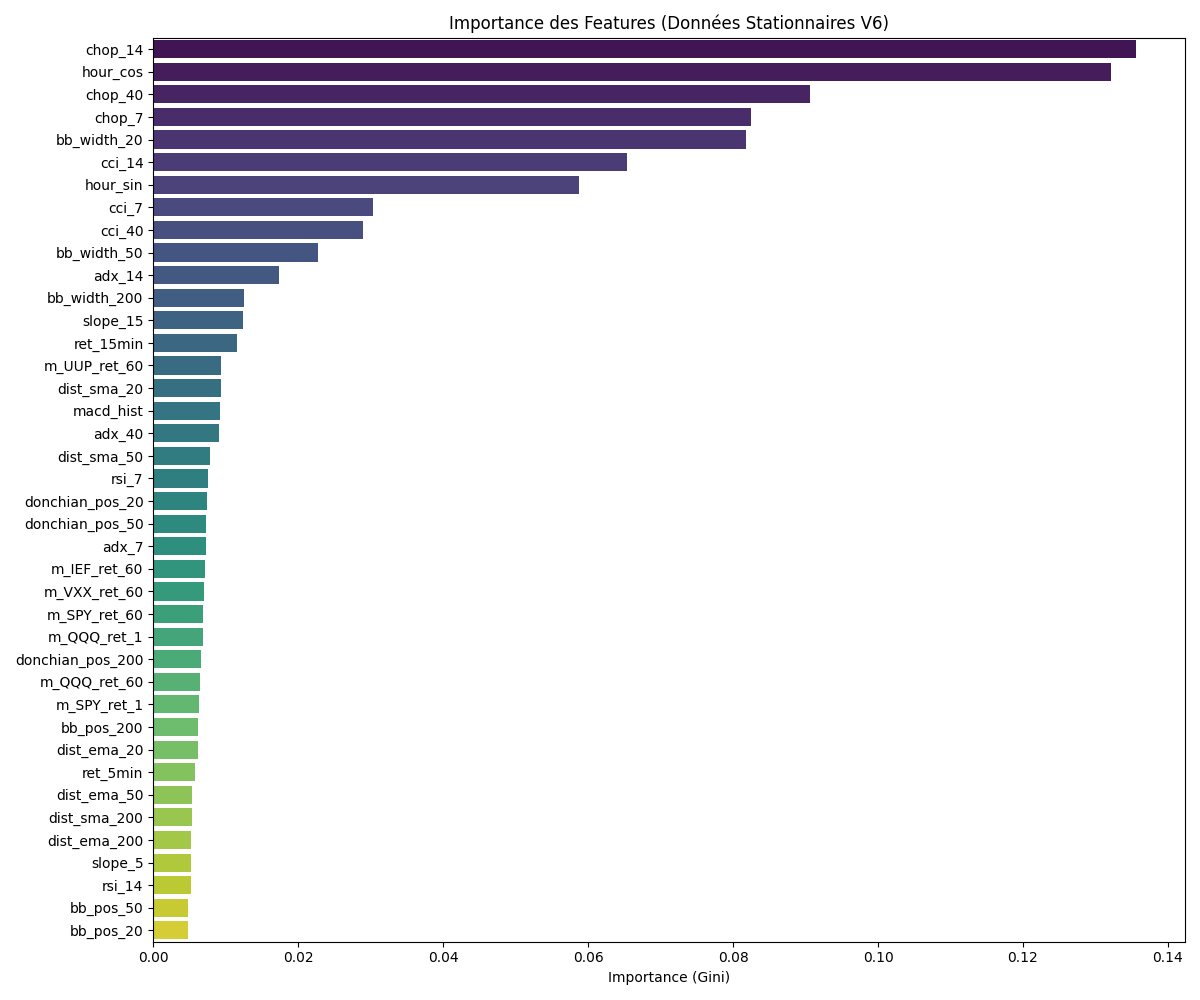
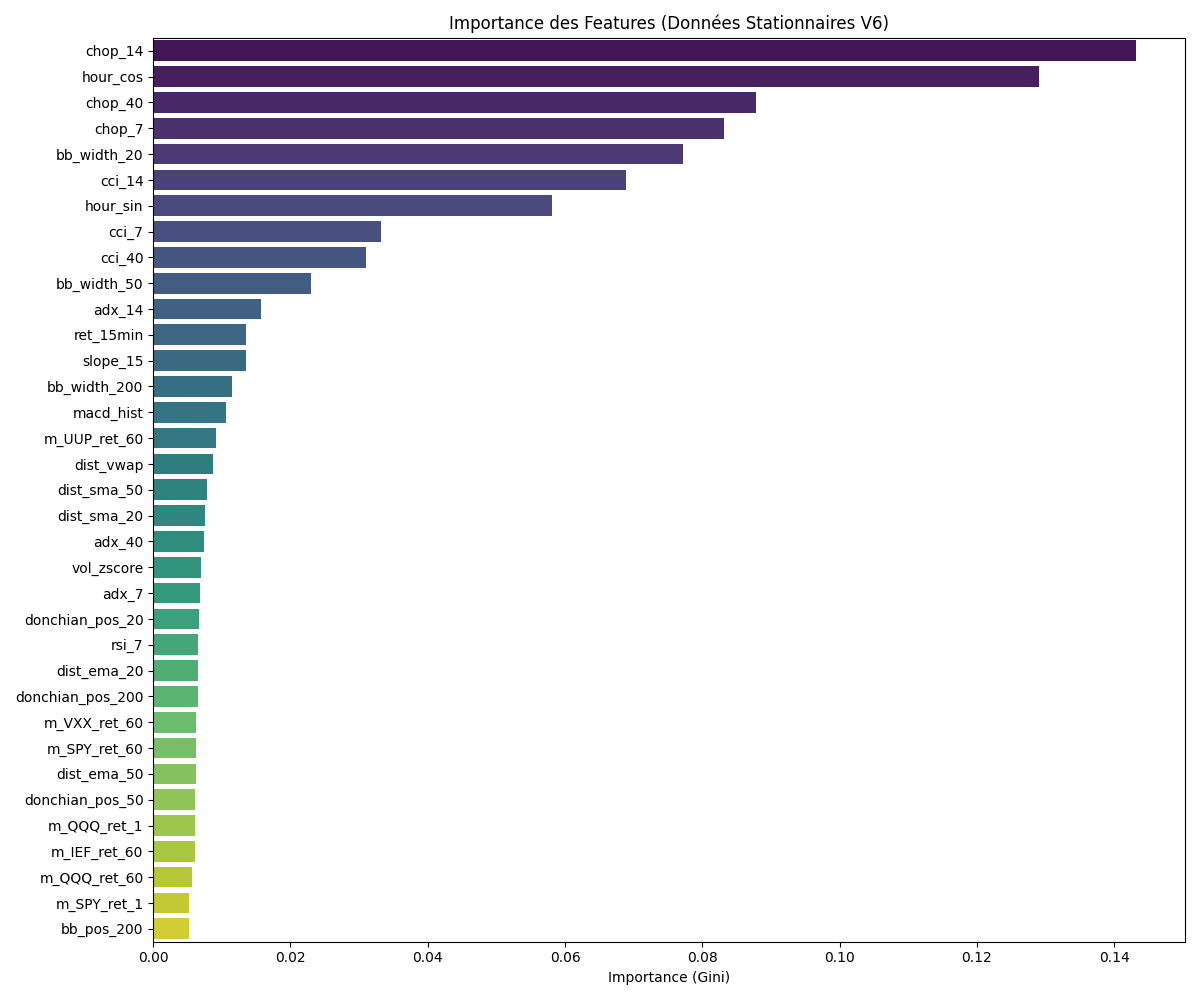
modification des paramètres avant entrainement

diff --git a/intraday/train_transformer.py b/intraday/train_transformer.py
@@ -47,6 +47,36 @@ gpus = tf.config.list_physical_devices('GPU')
 if gpus:
     for gpu in gpus: tf.config.experimental.set_memory_growth(gpu, True)
 
+
+# --- CUSTOM LOSS (PERMABULL KILLER) ---
+class SparseCategoricalFocalLoss(tf.keras.losses.Loss):
+    def __init__(self, gamma=2.0, from_logits=False, **kwargs):
+        super().__init__(**kwargs)
+        self.gamma = gamma
+        self.from_logits = from_logits
+
+    def call(self, y_true, y_pred):
+        if self.from_logits:
+            y_pred = tf.nn.softmax(y_pred)
+        
+        epsilon = tf.keras.backend.epsilon()
+        y_pred = tf.clip_by_value(y_pred, epsilon, 1. - epsilon)
+
+        y_true = tf.cast(y_true, tf.int32)
+        # On récupère la proba prédite pour la VRAIE classe
+        y_pred_true_class = tf.gather(y_pred, y_true, batch_dims=1, axis=1)
+
+        # Formule Focal Loss : (1 - p)^gamma * log(p)
+        # Plus le modèle est confiant (p proche de 1), moins ça compte.
+        # Si le modèle se trompe (p faible), le poids (1-p)^gamma devient énorme.
+        loss = - ((1 - y_pred_true_class) ** self.gamma) * tf.math.log(y_pred_true_class)
+        return tf.reduce_mean(loss)
+
+    def get_config(self):
+        config = super().get_config()
+        config.update({'gamma': self.gamma, 'from_logits': self.from_logits})
+        return config
+
 # --- COUCHES DU MODÈLE ---
 class PositionalEmbedding(layers.Layer):
     def __init__(self, sequence_length, output_dim, **kwargs):
@@ -245,7 +275,7 @@ def build_model_balanced(input_shape, n_classes):
     model = models.Model(inputs, outputs)
     model.compile(
         optimizer=optimizers.AdamW(learning_rate=LEARNING_RATE, weight_decay=1e-4),
-        loss="sparse_categorical_crossentropy", 
+        loss=SparseCategoricalFocalLoss(gamma=2.0, from_logits=False),
         metrics=["accuracy"],
         jit_compile=True
     )
@@ -290,9 +320,9 @@ if __name__ == "__main__":
     ]
 
     class_weights = {
-    0: 1.2,  # Important
-    1: 0.8,  # Moins grave si on se trompe sur le Wait
-    2: 1.3   # TRÈS Important (On force le BUY)
+    0: 1.0,  # Important
+    1: 0.7,  # Moins grave si on se trompe sur le Wait
+    2: 1.6   # TRÈS Important (On force le BUY)
 }
 
     print(f"\n🚀 GO TRAIN V6.3 (tf.data optimized) - Steps: {DISPLAY_STEPS}")
@@ -312,8 +342,10 @@ if __name__ == "__main__":
     model.load_weights(MODEL_PATH)
     
     all_preds, all_true = [], []
-    for i in tqdm(range(len(test_ds))):
-        X_b, y_b = test_ds[i]
+
+    print(f"🔍 Audit sur {VALIDATION_STEPS} batchs...")
+
+    for X_b, y_b in tqdm(test_ds.take(VALIDATION_STEPS), total=VALIDATION_STEPS):
         p = model.predict_on_batch(X_b)
         all_preds.append(np.argmax(p, axis=1))
         all_true.append(y_b)

diff --git a/intraday/evaluate_model.py b/intraday/evaluate_model.py
@@ -28,6 +28,27 @@ if gpus:
 policy = mixed_precision.Policy('mixed_float16')
 mixed_precision.set_global_policy(policy)
 
+class SparseCategoricalFocalLoss(tf.keras.losses.Loss):
+    def __init__(self, gamma=2.0, from_logits=False, **kwargs):
+        super().__init__(**kwargs)
+        self.gamma = gamma
+        self.from_logits = from_logits
+
+    def call(self, y_true, y_pred):
+        if self.from_logits:
+            y_pred = tf.nn.softmax(y_pred)
+        epsilon = tf.keras.backend.epsilon()
+        y_pred = tf.clip_by_value(y_pred, epsilon, 1. - epsilon)
+        y_true = tf.cast(y_true, tf.int32)
+        y_pred_true_class = tf.gather(y_pred, y_true, batch_dims=1, axis=1)
+        loss = - ((1 - y_pred_true_class) ** self.gamma) * tf.math.log(y_pred_true_class)
+        return tf.reduce_mean(loss)
+
+    def get_config(self):
+        config = super().get_config()
+        config.update({'gamma': self.gamma, 'from_logits': self.from_logits})
+        return config
+
 # --- RECONSTRUCTION COUCHE CUSTOM ---
 class PositionalEmbedding(layers.Layer):
     def __init__(self, sequence_length, output_dim, **kwargs):
@@ -56,7 +77,7 @@ def evaluate_safe():
     scaler = joblib.load(SCALER_PATH)
     
     print("🧠 Chargement du modèle...")
-    model = models.load_model(MODEL_PATH, custom_objects={'PositionalEmbedding': PositionalEmbedding})
+    model = models.load_model(MODEL_PATH, custom_objects={'PositionalEmbedding': PositionalEmbedding,'SparseCategoricalFocalLoss': SparseCategoricalFocalLoss})
     
     # ⚡ ASTUCE : On compile avec jit_compile=False pour éviter la recompilation incessante
     # sur des fichiers de tailles variables. C'est beaucoup plus fluide pour le test.

diff --git a/intraday/enrich_data.py b/intraday/enrich_data.py
@@ -199,6 +199,30 @@ def add_massive_features(df):
     df['hour_sin'] = np.sin(2 * np.pi * df.index.hour / 24)
     df['hour_cos'] = np.cos(2 * np.pi * df.index.hour / 24)
 
+    # --- AJOUT V6.5 : INDICATEURS INSTITUTIONNELS (SMART MONEY) ---
+    
+    # 1. VWAP (Volume Weighted Average Price)
+    # Même avec le volume IEX, le VWAP reste une résistance psychologique majeure.
+    # On utilise l'ancrage journalier ('D').
+    vwap = ta.vwap(high=df['high'], low=df['low'], close=df['close'], volume=df['volume'], anchor='D')
+    
+    # IMPORTANT : On ne garde que la DISTANCE en % (Stationnaire)
+    # Si vwap est NaN (début de journée), on remplace par 0
+    df['dist_vwap'] = (df['close'] - vwap) / vwap
+    df['dist_vwap'] = df['dist_vwap'].fillna(0)
+
+    # 2. VOLATILITÉ RELATIVE DU VOLUME (Z-Score)
+    # On se fiche du volume absolu (IEX). On veut savoir si c'est "calme" ou "panique" 
+    # par rapport à d'habitude SUR CE MÊME EXCHANGE.
+    vol_mean = df['volume'].rolling(window=20).mean()
+    vol_std = df['volume'].rolling(window=20).std()
+    
+    # On ajoute une petite valeur epsilon (1e-6) pour éviter la division par zéro
+    df['vol_zscore'] = (df['volume'] - vol_mean) / (vol_std + 1e-6)
+    
+    # Nettoyage des NaN créés par le rolling
+    df['vol_zscore'] = df['vol_zscore'].fillna(0)
+
     return df
 
 # --- MAIN ---

diff --git a/intraday/select_features.py b/intraday/select_features.py
@@ -10,8 +10,8 @@ from tqdm import tqdm
 
 # --- CONFIG ---
 DATA_DIR = "data_enriched_v6_heavy" # Le nouveau dossier propre
-SAMPLE_FRACTION = 0.40 # On prend 40% des données pour aller vite (augmenter si besoin)
-TOP_N = 40 # On garde les 40 meilleures features
+SAMPLE_FRACTION = 0.50 # On prend 50% des données pour aller vite (augmenter si besoin)
+TOP_N = 35 # On garde les 35 meilleures features
 
 print("--- SÉLECTION DES FEATURES (V6 HEAVY) ---")
 
